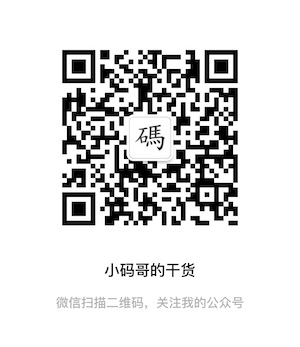
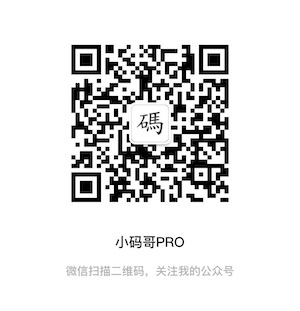
update images

diff --git a/posts/2012-03-10-at-a-late-night/index.html b/posts/2012-03-10-at-a-late-night/index.html
@@ -118,7 +118,7 @@ CSS定位：<a href="http://www.haozi.cn/code/position-static-relative-absolute-
                             <p>(完)</p>
                             
                             <blockquote>
-                                <p>本文为原创文章，转载需注明出处，欢迎扫码关注公众号<code>小码哥的干货</code>或者网站 <a href="https://thisiswangle.com">https://thisiswangle.com</a>，第一时间看后续精彩文章。觉得好的话，顺手分享到朋友圈吧，感谢支持。</p>
+                                <p>本文为原创文章，转载需注明出处，欢迎扫码关注公众号<code>小码哥PRO</code>或者网站 <a href="https://thisiswangle.com">https://thisiswangle.com</a>，第一时间看后续精彩文章。觉得好的话，顺手分享到朋友圈吧，感谢支持。</p>
                             </blockquote>
                             <p><img src="/images/qrcode_for_weixin.jpeg" alt="扫码关注"></p>
                             

diff --git a/posts/2014-10-16-tuning-nginx/index.html b/posts/2014-10-16-tuning-nginx/index.html
@@ -223,7 +223,7 @@ Nginx 可以利用它通过 socket 发送缓存的或者磁盘上的内容，并
                             <p>(完)</p>
                             
                             <blockquote>
-                                <p>本文为原创文章，转载需注明出处，欢迎扫码关注公众号<code>小码哥的干货</code>或者网站 <a href="https://thisiswangle.com">https://thisiswangle.com</a>，第一时间看后续精彩文章。觉得好的话，顺手分享到朋友圈吧，感谢支持。</p>
+                                <p>本文为原创文章，转载需注明出处，欢迎扫码关注公众号<code>小码哥PRO</code>或者网站 <a href="https://thisiswangle.com">https://thisiswangle.com</a>，第一时间看后续精彩文章。觉得好的话，顺手分享到朋友圈吧，感谢支持。</p>
                             </blockquote>
                             <p><img src="/images/qrcode_for_weixin.jpeg" alt="扫码关注"></p>
                             

diff --git a/posts/2018-12-18-gitlab-docker-install/index.html b/posts/2018-12-18-gitlab-docker-install/index.html
@@ -294,7 +294,7 @@ gitlab_rails<span style="color:#f92672">[</span><span style="color:#e6db74">&#39
                             <p>(完)</p>
                             
                             <blockquote>
-                                <p>本文为原创文章，转载需注明出处，欢迎扫码关注公众号<code>小码哥的干货</code>或者网站 <a href="https://thisiswangle.com">https://thisiswangle.com</a>，第一时间看后续精彩文章。觉得好的话，顺手分享到朋友圈吧，感谢支持。</p>
+                                <p>本文为原创文章，转载需注明出处，欢迎扫码关注公众号<code>小码哥PRO</code>或者网站 <a href="https://thisiswangle.com">https://thisiswangle.com</a>，第一时间看后续精彩文章。觉得好的话，顺手分享到朋友圈吧，感谢支持。</p>
                             </blockquote>
                             <p><img src="/images/qrcode_for_weixin.jpeg" alt="扫码关注"></p>
                             

diff --git a/posts/2012-03-22-a-short-discuss-of-SimpleXML-of-php/index.html b/posts/2012-03-22-a-short-discuss-of-SimpleXML-of-php/index.html
@@ -132,7 +132,7 @@ $entryChildren = $entry-&gt;children('http://www.douban.com/xmlns/');
                             <p>(完)</p>
                             
                             <blockquote>
-                                <p>本文为原创文章，转载需注明出处，欢迎扫码关注公众号<code>小码哥的干货</code>或者网站 <a href="https://thisiswangle.com">https://thisiswangle.com</a>，第一时间看后续精彩文章。觉得好的话，顺手分享到朋友圈吧，感谢支持。</p>
+                                <p>本文为原创文章，转载需注明出处，欢迎扫码关注公众号<code>小码哥PRO</code>或者网站 <a href="https://thisiswangle.com">https://thisiswangle.com</a>，第一时间看后续精彩文章。觉得好的话，顺手分享到朋友圈吧，感谢支持。</p>
                             </blockquote>
                             <p><img src="/images/qrcode_for_weixin.jpeg" alt="扫码关注"></p>
                             

diff --git a/posts/2014-05-06-github-pages-dns-settings/index.html b/posts/2014-05-06-github-pages-dns-settings/index.html
@@ -157,7 +157,7 @@ ns4.p04.dynect.net.     153     IN      A       204.13.251.4
                             <p>(完)</p>
                             
                             <blockquote>
-                                <p>本文为原创文章，转载需注明出处，欢迎扫码关注公众号<code>小码哥的干货</code>或者网站 <a href="https://thisiswangle.com">https://thisiswangle.com</a>，第一时间看后续精彩文章。觉得好的话，顺手分享到朋友圈吧，感谢支持。</p>
+                                <p>本文为原创文章，转载需注明出处，欢迎扫码关注公众号<code>小码哥PRO</code>或者网站 <a href="https://thisiswangle.com">https://thisiswangle.com</a>，第一时间看后续精彩文章。觉得好的话，顺手分享到朋友圈吧，感谢支持。</p>
                             </blockquote>
                             <p><img src="/images/qrcode_for_weixin.jpeg" alt="扫码关注"></p>
                             

diff --git a/posts/2019-09-19-rpi-log-config/index.html b/posts/2019-09-19-rpi-log-config/index.html
@@ -191,7 +191,7 @@ tmpfs /var/tmp tmpfs defaults,noatime,nosuid,size=10m 0 0
                             <p>(完)</p>
                             
                             <blockquote>
-                                <p>本文为原创文章，转载需注明出处，欢迎扫码关注公众号<code>小码哥的干货</code>或者网站 <a href="https://thisiswangle.com">https://thisiswangle.com</a>，第一时间看后续精彩文章。觉得好的话，顺手分享到朋友圈吧，感谢支持。</p>
+                                <p>本文为原创文章，转载需注明出处，欢迎扫码关注公众号<code>小码哥PRO</code>或者网站 <a href="https://thisiswangle.com">https://thisiswangle.com</a>，第一时间看后续精彩文章。觉得好的话，顺手分享到朋友圈吧，感谢支持。</p>
                             </blockquote>
                             <p><img src="/images/qrcode_for_weixin.jpeg" alt="扫码关注"></p>
                             

diff --git a/posts/2011-12-01-when-datatype-is-json/index.html b/posts/2011-12-01-when-datatype-is-json/index.html
@@ -126,7 +126,7 @@ var json = eval(‘(‘+ content +’)&#39;)
                             <p>(完)</p>
                             
                             <blockquote>
-                                <p>本文为原创文章，转载需注明出处，欢迎扫码关注公众号<code>小码哥的干货</code>或者网站 <a href="https://thisiswangle.com">https://thisiswangle.com</a>，第一时间看后续精彩文章。觉得好的话，顺手分享到朋友圈吧，感谢支持。</p>
+                                <p>本文为原创文章，转载需注明出处，欢迎扫码关注公众号<code>小码哥PRO</code>或者网站 <a href="https://thisiswangle.com">https://thisiswangle.com</a>，第一时间看后续精彩文章。觉得好的话，顺手分享到朋友圈吧，感谢支持。</p>
                             </blockquote>
                             <p><img src="/images/qrcode_for_weixin.jpeg" alt="扫码关注"></p>
                             

diff --git a/posts/2019-05-29-centos7-pyenv-install-python-3/index.html b/posts/2019-05-29-centos7-pyenv-install-python-3/index.html
@@ -144,7 +144,7 @@ eval &quot;$(pyenv virtualenv-init -)&quot;
                             <p>(完)</p>
                             
                             <blockquote>
-                                <p>本文为原创文章，转载需注明出处，欢迎扫码关注公众号<code>小码哥的干货</code>或者网站 <a href="https://thisiswangle.com">https://thisiswangle.com</a>，第一时间看后续精彩文章。觉得好的话，顺手分享到朋友圈吧，感谢支持。</p>
+                                <p>本文为原创文章，转载需注明出处，欢迎扫码关注公众号<code>小码哥PRO</code>或者网站 <a href="https://thisiswangle.com">https://thisiswangle.com</a>，第一时间看后续精彩文章。觉得好的话，顺手分享到朋友圈吧，感谢支持。</p>
                             </blockquote>
                             <p><img src="/images/qrcode_for_weixin.jpeg" alt="扫码关注"></p>
                             

diff --git a/posts/2013-03-04-so-load-path-in-linux/index.html b/posts/2013-03-04-so-load-path-in-linux/index.html
@@ -158,7 +158,7 @@ $ objdump -s -j .rodata -t libfoo.so
                             <p>(完)</p>
                             
                             <blockquote>
-                                <p>本文为原创文章，转载需注明出处，欢迎扫码关注公众号<code>小码哥的干货</code>或者网站 <a href="https://thisiswangle.com">https://thisiswangle.com</a>，第一时间看后续精彩文章。觉得好的话，顺手分享到朋友圈吧，感谢支持。</p>
+                                <p>本文为原创文章，转载需注明出处，欢迎扫码关注公众号<code>小码哥PRO</code>或者网站 <a href="https://thisiswangle.com">https://thisiswangle.com</a>，第一时间看后续精彩文章。觉得好的话，顺手分享到朋友圈吧，感谢支持。</p>
                             </blockquote>
                             <p><img src="/images/qrcode_for_weixin.jpeg" alt="扫码关注"></p>
                             

diff --git a/posts/2014-03-02-python-on-my-rmbp/index.html b/posts/2014-03-02-python-on-my-rmbp/index.html
@@ -134,7 +134,7 @@ sudo pip install virtualenv
                             <p>(完)</p>
                             
                             <blockquote>
-                                <p>本文为原创文章，转载需注明出处，欢迎扫码关注公众号<code>小码哥的干货</code>或者网站 <a href="https://thisiswangle.com">https://thisiswangle.com</a>，第一时间看后续精彩文章。觉得好的话，顺手分享到朋友圈吧，感谢支持。</p>
+                                <p>本文为原创文章，转载需注明出处，欢迎扫码关注公众号<code>小码哥PRO</code>或者网站 <a href="https://thisiswangle.com">https://thisiswangle.com</a>，第一时间看后续精彩文章。觉得好的话，顺手分享到朋友圈吧，感谢支持。</p>
                             </blockquote>
                             <p><img src="/images/qrcode_for_weixin.jpeg" alt="扫码关注"></p>
                             

diff --git a/posts/2011-12-01-how-to-use-simplexml-of-php/index.html b/posts/2011-12-01-how-to-use-simplexml-of-php/index.html
@@ -150,7 +150,7 @@ foreach($result as $item)
                             <p>(完)</p>
                             
                             <blockquote>
-                                <p>本文为原创文章，转载需注明出处，欢迎扫码关注公众号<code>小码哥的干货</code>或者网站 <a href="https://thisiswangle.com">https://thisiswangle.com</a>，第一时间看后续精彩文章。觉得好的话，顺手分享到朋友圈吧，感谢支持。</p>
+                                <p>本文为原创文章，转载需注明出处，欢迎扫码关注公众号<code>小码哥PRO</code>或者网站 <a href="https://thisiswangle.com">https://thisiswangle.com</a>，第一时间看后续精彩文章。觉得好的话，顺手分享到朋友圈吧，感谢支持。</p>
                             </blockquote>
                             <p><img src="/images/qrcode_for_weixin.jpeg" alt="扫码关注"></p>
                             

diff --git a/posts/2017-06-06-xtrabackup/index.html b/posts/2017-06-06-xtrabackup/index.html
@@ -160,7 +160,7 @@ show slave status\G;
                             <p>(完)</p>
                             
                             <blockquote>
-                                <p>本文为原创文章，转载需注明出处，欢迎扫码关注公众号<code>小码哥的干货</code>或者网站 <a href="https://thisiswangle.com">https://thisiswangle.com</a>，第一时间看后续精彩文章。觉得好的话，顺手分享到朋友圈吧，感谢支持。</p>
+                                <p>本文为原创文章，转载需注明出处，欢迎扫码关注公众号<code>小码哥PRO</code>或者网站 <a href="https://thisiswangle.com">https://thisiswangle.com</a>，第一时间看后续精彩文章。觉得好的话，顺手分享到朋友圈吧，感谢支持。</p>
                             </blockquote>
                             <p><img src="/images/qrcode_for_weixin.jpeg" alt="扫码关注"></p>
                             
